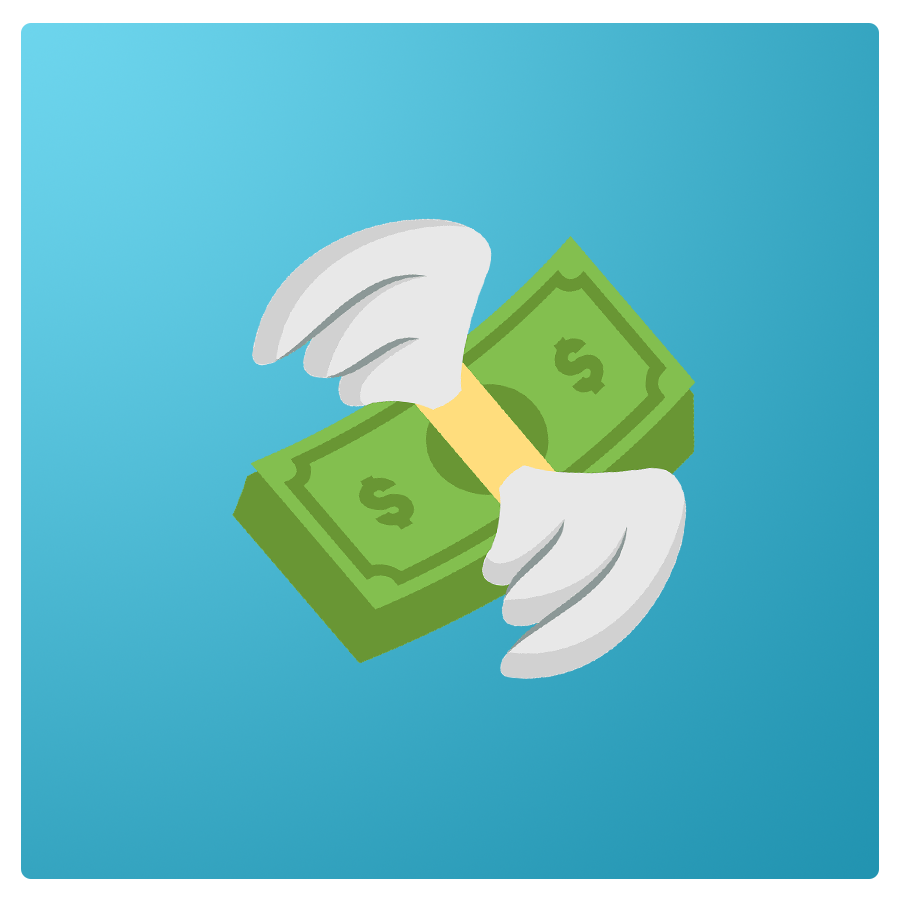
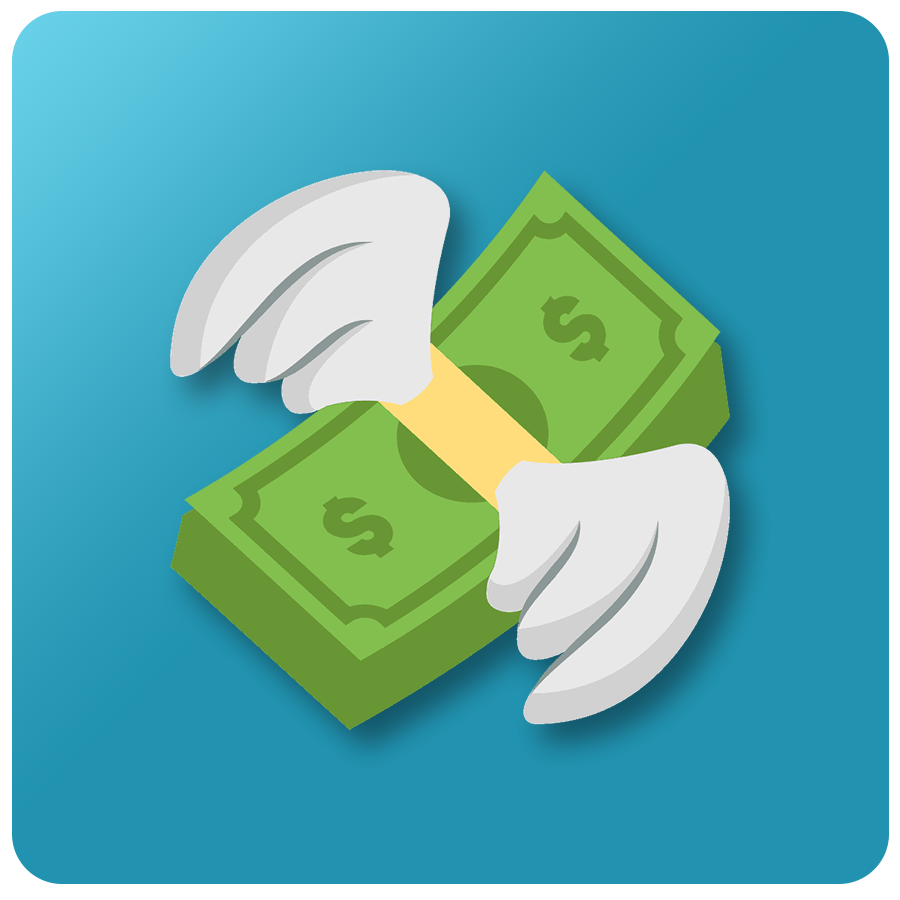
Style & Back EDIT
- Nuevo icono, más grande, más curveado y con sombra.

- Los alerts ya no producen errores al cerrarlos y abrirlos.

-

diff --git a/Pah/platforms/browser/www/about.html b/Pah/platforms/browser/www/about.html
@@ -17,7 +17,7 @@
     
     <ons-card style="padding: 16px;">
       <label class="paraTutorial">Autor: <span style="color: var(--home-total-money)">Oscar Díaz</span></label>
-      <label class="paraTutorial">Versión: <span style="color: var(--home-total-money)">1.12.01</span></label>
+      <label class="paraTutorial">Versión: <span style="color: var(--home-total-money)">1.12.30</span></label>
       <label class="paraTutorial">Código Fuente: <a href="https://github.com/OscarFDiaz/ProyectoAhorro" style="color: var(--home-total-money)">Pulsa aquí!</a></label>
     </ons-card>
 

diff --git a/Pah/www/about.html b/Pah/www/about.html
@@ -17,7 +17,7 @@
     
     <ons-card style="padding: 16px;">
       <label class="paraTutorial">Autor: <span style="color: var(--home-total-money)">Oscar Díaz</span></label>
-      <label class="paraTutorial">Versión: <span style="color: var(--home-total-money)">1.12.01</span></label>
+      <label class="paraTutorial">Versión: <span style="color: var(--home-total-money)">1.12.30</span></label>
       <label class="paraTutorial">Código Fuente: <a href="https://github.com/OscarFDiaz/ProyectoAhorro" style="color: var(--home-total-money)">Pulsa aquí!</a></label>
     </ons-card>
 

diff --git a/Pah/platforms/browser/www/scripts/alertMoneys.js b/Pah/platforms/browser/www/scripts/alertMoneys.js
@@ -8,6 +8,8 @@ function createAlertDialogToEditMoneyMoney() {
   var dialog = document.getElementById("alertEditMoneyMoney");
   
   if (dialog) {
+      document.getElementById("editOnlyMoneyMoney").value = "";
+      document.getElementById("editMoneyEndMoney").innerHTML = "";
       dialog.show();
       document.getElementById("editMoneyActualMoney").innerHTML = parseMoney.moneyCurrent;
   } else {

diff --git a/Pah/www/scripts/alertMoneys.js b/Pah/www/scripts/alertMoneys.js
@@ -8,6 +8,8 @@ function createAlertDialogToEditMoneyMoney() {
   var dialog = document.getElementById("alertEditMoneyMoney");
   
   if (dialog) {
+      document.getElementById("editOnlyMoneyMoney").value = "";
+      document.getElementById("editMoneyEndMoney").innerHTML = "";
       dialog.show();
       document.getElementById("editMoneyActualMoney").innerHTML = parseMoney.moneyCurrent;
   } else {

diff --git a/Pah/platforms/browser/www/scripts/alertGoals.js b/Pah/platforms/browser/www/scripts/alertGoals.js
@@ -136,6 +136,8 @@ function createAlertDialogToEditGoalMoney() {
   var dialog = document.getElementById("alertEditGoalMoney");
 
   if (dialog) {
+    document.getElementById("editOnlyGoalMoney").value = "";
+    document.getElementById("editOnlyEndMoney").innerHTML = "";
     dialog.show();
   } else {
     ons.notification.toast(

diff --git a/Pah/www/scripts/alertGoals.js b/Pah/www/scripts/alertGoals.js
@@ -136,6 +136,8 @@ function createAlertDialogToEditGoalMoney() {
   var dialog = document.getElementById("alertEditGoalMoney");
 
   if (dialog) {
+    document.getElementById("editOnlyGoalMoney").value = "";
+    document.getElementById("editOnlyEndMoney").innerHTML = "";
     dialog.show();
   } else {
     ons.notification.toast(
